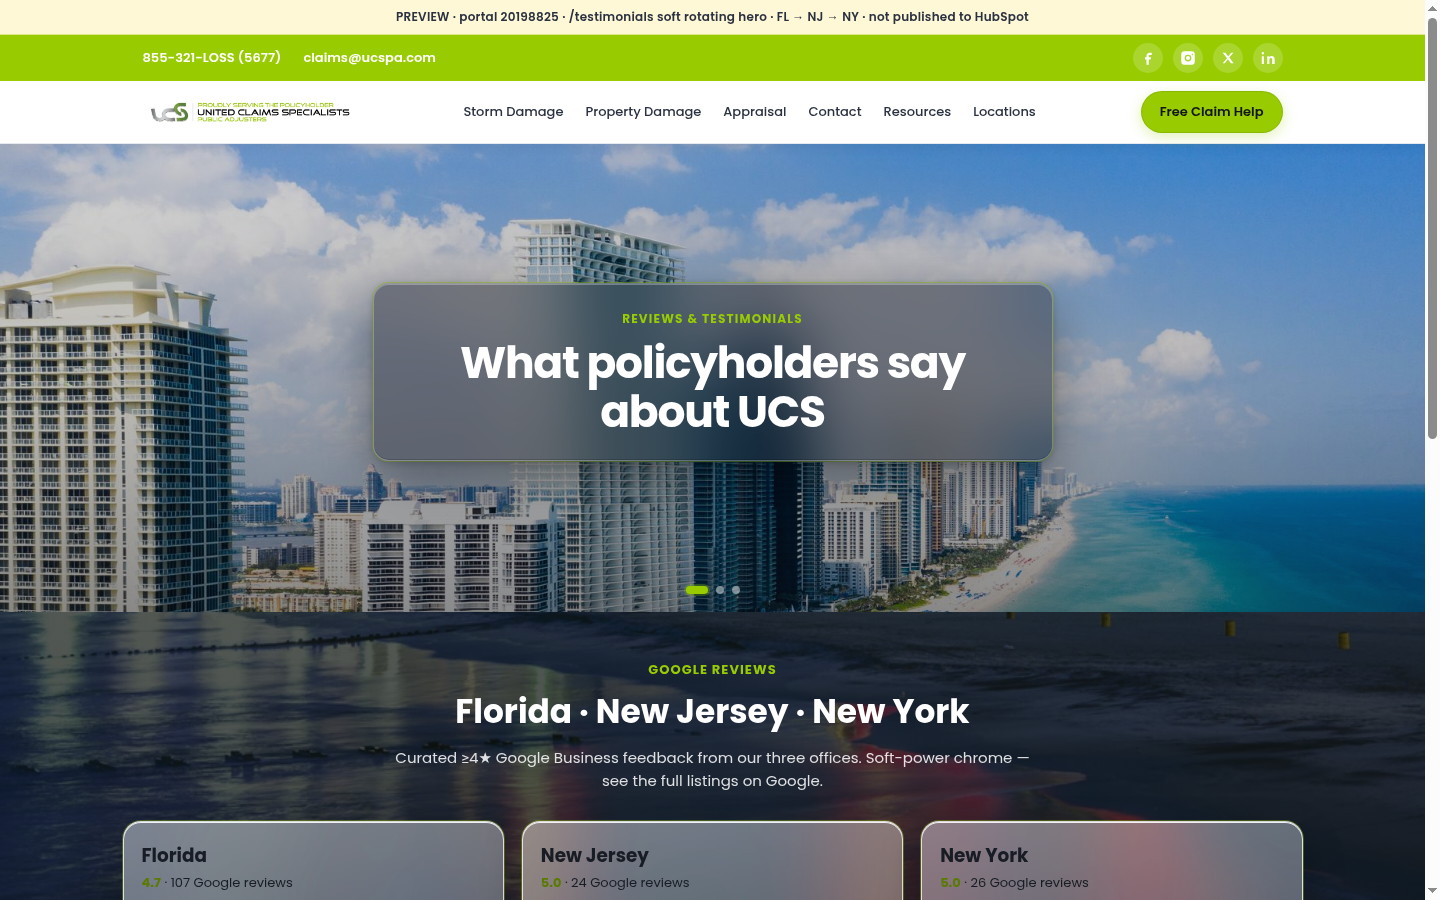
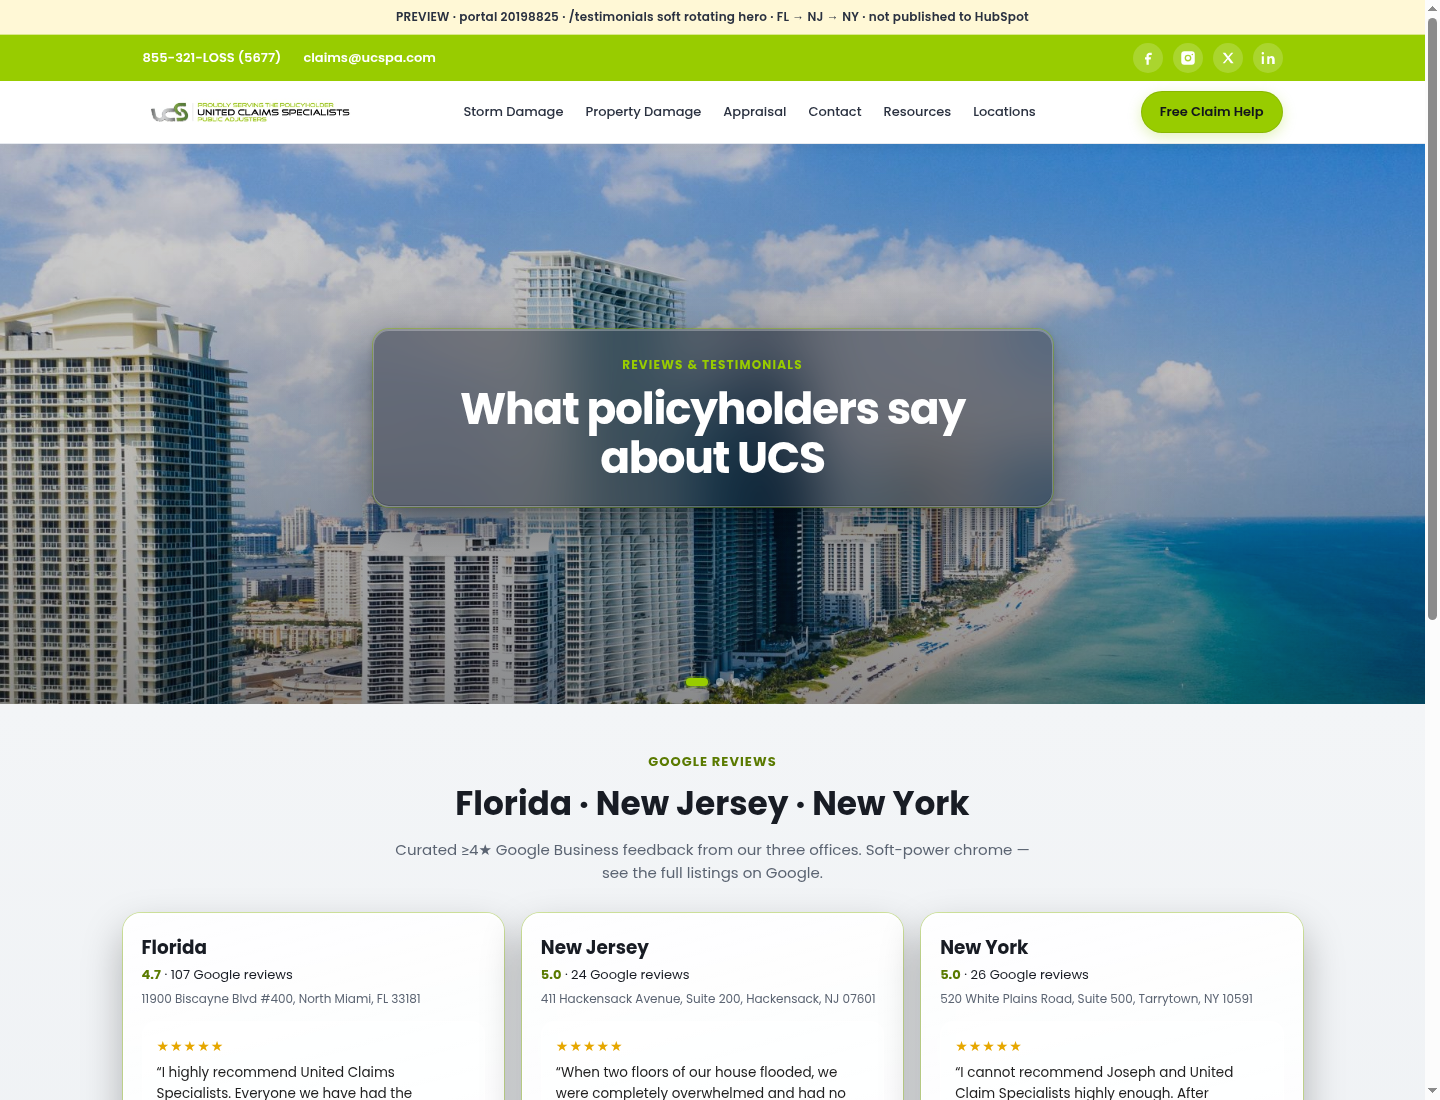
Fix testimonials preview: FL/NJ/NY state heroes + calm cards
Live UCS state-page HubFS heroes (not city courthouse/marina). Soft
solid cards band. Title-only frost; state labels; soft rotate. Preview only.

diff --git a/testimonials-hero-rotator-20261001/assets/css/preview.css b/testimonials-hero-rotator-20261001/assets/css/preview.css
@@ -7,7 +7,7 @@ body {
   min-height: 100%;
   font-family: Poppins, system-ui, -apple-system, Segoe UI, Roboto, sans-serif;
   color: #181c24;
-  background: #0f1610;
+  background: #eef1f4;
   -webkit-font-smoothing: antialiased;
 }
 main { display: block; margin: 0; padding: 0; }
@@ -249,21 +249,21 @@ img { max-width: 100%; display: block; }
 .gbp-band {
   position: relative;
   padding: 48px 20px 64px;
-  background:
-    linear-gradient(180deg, rgba(15,22,16,.72), rgba(15,22,16,.82)),
-    url("https://www.ucspa.com/hubfs/Atlantic%20City%2c%20New%20Jersey%2c%20USA%20resort%20casinos%20cityscape%20on%20the%20shore%20at%20night..jpeg") center/cover fixed;
+  /* Calm solid/soft frost — no busy photo behind cards (Joe lock) */
+  background: linear-gradient(180deg, #f3f5f7 0%, #eef1f4 55%, #e8ecf0 100%);
 }
 .gbp-wrap { max-width: 1180px; margin: 0 auto; }
-.gbp-intro { text-align: center; margin-bottom: 28px; color: #fff; }
+.gbp-intro { text-align: center; margin-bottom: 28px; color: var(--ink); }
 .gbp-kicker {
-  color: var(--lime); text-transform: uppercase; font-size: 13px; font-weight: 700;
+  color: #5a7a00; text-transform: uppercase; font-size: 13px; font-weight: 700;
   letter-spacing: .08em; margin: 0 0 8px;
 }
 .gbp-intro h2 {
   margin: 0 0 10px; font-size: clamp(1.5rem, 3vw, 2.05rem); font-weight: 700;
+  color: var(--ink);
 }
 .gbp-sub {
-  margin: 0 auto; max-width: 640px; color: rgba(255,255,255,.86);
+  margin: 0 auto; max-width: 640px; color: var(--muted);
   font-size: 15px; line-height: 1.55;
 }
 .gbp-grid {
@@ -275,10 +275,10 @@ img { max-width: 100%; display: block; }
   .site-header { top: 40px; }
 }
 .gbp-col {
-  background: var(--frost-bg);
-  backdrop-filter: blur(28px) saturate(1.6);
-  -webkit-backdrop-filter: blur(28px) saturate(1.6);
-  border: 1px solid rgba(255,255,255,.78);
+  background: linear-gradient(165deg, rgba(255,255,255,.92) 0%, rgba(255,255,255,.78) 48%, rgba(240,250,220,.55) 100%);
+  backdrop-filter: blur(18px) saturate(1.3);
+  -webkit-backdrop-filter: blur(18px) saturate(1.3);
+  border: 1px solid rgba(255,255,255,.95);
   border-radius: var(--radius);
   box-shadow:
     0 0 0 1px rgba(152,204,0,.35),
@@ -318,6 +318,6 @@ img { max-width: 100%; display: block; }
 .gbp-seeall:hover { filter: brightness(.95); }
 
 .preview-foot {
-  text-align: center; color: rgba(255,255,255,.65); font-size: 11px;
-  padding: 0 16px 28px; background: #0f1610;
+  text-align: center; color: var(--muted); font-size: 11px;
+  padding: 8px 16px 28px; background: #e8ecf0;
 }

diff --git a/testimonials-hero-rotator-20261001/index.html b/testimonials-hero-rotator-20261001/index.html
@@ -9,7 +9,7 @@
 <link rel="preconnect" href="https://fonts.googleapis.com" />
 <link rel="preconnect" href="https://fonts.gstatic.com" crossorigin />
 <link href="https://fonts.googleapis.com/css2?family=Poppins:wght@400;500;600;700&display=swap" rel="stylesheet" />
-<link rel="stylesheet" href="assets/css/preview.css?v=20261001c" />
+<link rel="stylesheet" href="assets/css/preview.css?v=20261001d" />
 </head>
 <body>
 <div class="draft-banner" role="status">
@@ -62,13 +62,13 @@
   <section class="hero" aria-label="Office locations">
     <div class="hero-media hero-media--dissolve" data-interval="6000" aria-hidden="true">
       <div class="hero-slide is-active" data-label="Florida">
-        <img src="assets/img/hero-miami.jpg" alt="" width="1859" height="1200" fetchpriority="high" decoding="async" />
+        <img src="assets/img/hero-florida.jpg" alt="" width="1859" height="1200" fetchpriority="high" decoding="async" />
       </div>
       <div class="hero-slide" data-label="New Jersey">
-        <img src="assets/img/hero-hackensack.jpg" alt="" width="1920" height="960" fetchpriority="high" decoding="async" />
+        <img src="assets/img/hero-new-jersey.jpg" alt="" width="1905" height="1200" fetchpriority="high" decoding="async" />
       </div>
       <div class="hero-slide" data-label="New York">
-        <img src="assets/img/hero-tarrytown.jpg" alt="" width="1920" height="960" fetchpriority="high" decoding="async" />
+        <img src="assets/img/hero-new-york.jpg" alt="" width="1800" height="1200" fetchpriority="high" decoding="async" />
       </div>
     </div>
     <div class="hero-veil"></div>
@@ -178,6 +178,6 @@
 <footer class="preview-foot">
   PREVIEW ONLY · soft 6s dissolve · title-only frost · FL · NJ · NY state labels · no HubSpot publish
 </footer>
-<script src="assets/js/hero-carousel.js?v=20261001c"></script>
+<script src="assets/js/hero-carousel.js?v=20261001d"></script>
 </body>
 </html>

diff --git a/testimonials-hero-rotator-20261001/NOTES.md b/testimonials-hero-rotator-20261001/NOTES.md
@@ -1,33 +1,15 @@
-# Testimonials soft rotating hero — PREVIEW 2026-10-01 (Joe fix pass)
+# Testimonials soft rotating hero — PREVIEW 2026-10-01 (state heroes + calm cards)
 
-**Status:** Clickable preview only. **Not** published to HubSpot live.  
-**Portal:** 20198825 · live path `/testimonials` → `/public-adjuster-reviews`
+**Status:** Clickable preview only. **Not** HubSpot live.
 
-## Joe fix pass (2026-10-01 ~6:40 AM ET)
+## Joe fix pass 2 (2026-10-01 ~6:49 AM ET)
 
-1. **State labels** on GBP cards: primary titles = **Florida / New Jersey / New York** (city stays in NAP address line only).
-2. **Hero frost = title only**: lime kicker + H1. Removed lede, location pill, CTAs, and body copy under the title. Soft dots sit under the card (non-word UI).
-3. **Rotate fixed**: removed `loading="lazy"` on hidden slides (they never decoded); opacity-only crossfade (no `visibility:hidden`); eager preload + `decode()`; script without `defer` race; cache-bust `?v=20261001c`.
-
-## Rotation / fade
-
-| Setting | Value |
-|---|---|
-| Interval | **6000 ms** |
-| Fade | **1.8s** opacity ease-in-out |
-| Order | Florida (Miami aerial) → New Jersey (Hackensack courthouse) → New York (Tarrytown marina) |
-| Verified | CDP real-time: active 0→1→2; opacities `[1,0,0]`→`[0,1,0]`→`[0,0,1]`; shots `shots/verify-slide*.png` |
-
-## Images
-
-| Slide | File | Source |
-|---|---|---|
-| FL | `hero-miami.jpg` | Live UCS HubFS Public Adjuster Miami Florida |
-| NJ | `hero-hackensack.jpg` | HubSpot city-heroes/hero-hackensack.jpg |
-| NY | `hero-tarrytown.jpg` | HubSpot city-heroes/hero-tarrytown.jpg |
+1. **State heroes only** (live UCS state-page HubFS — not city courthouse/marina):
+   - FL: `Public Adjuster Miami Florida.jpeg` → `hero-florida.jpg`
+   - NJ: `Public Aduster New Jersey.jpg` (live typo filename) → `hero-new-jersey.jpg` (Ben Franklin Bridge / NJ shore view)
+   - NY: `Public Adjuster New York (1).webp` → `hero-new-york.jpg` (Liberty + Manhattan)
+2. **Calm cards band** — solid soft gray gradient; Atlantic City photo removed. Cards readable.
+3. Prior locks: title-only frost · state card titles · soft 6s dissolve · soft-power
 
 ## GH Pages
-
 https://joedirect7.github.io/ucspa-redesign-mockup-20260926/testimonials-hero-rotator-20261001/
-
-**Not** live on ucspa.com / HubSpot.
